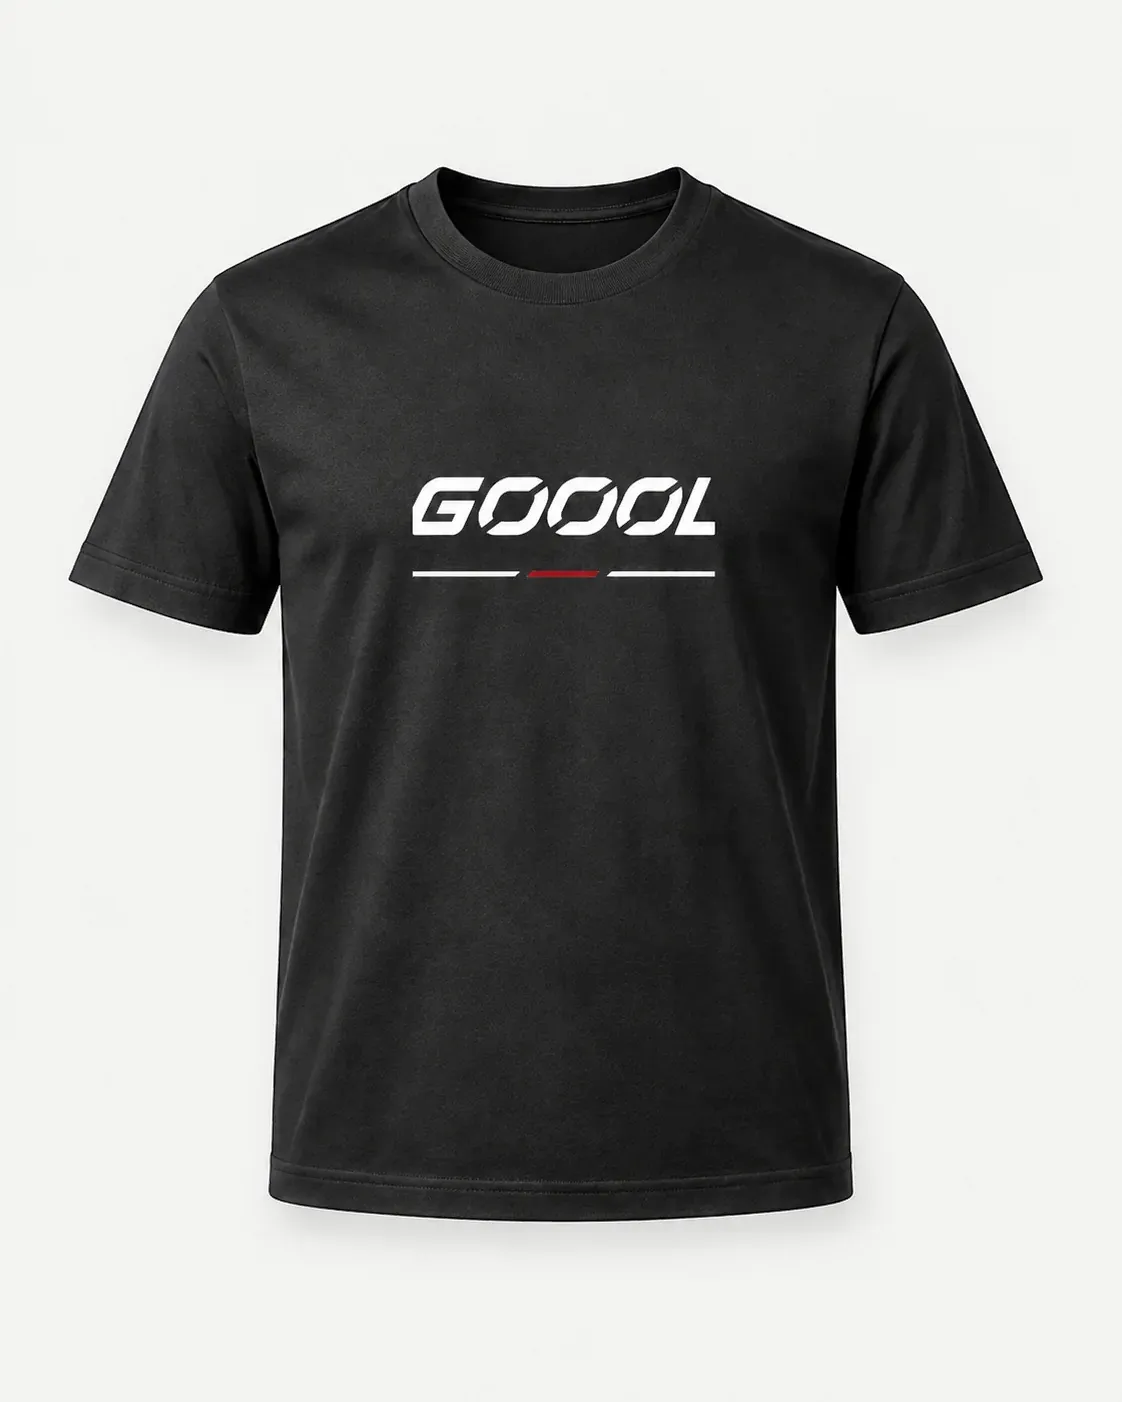
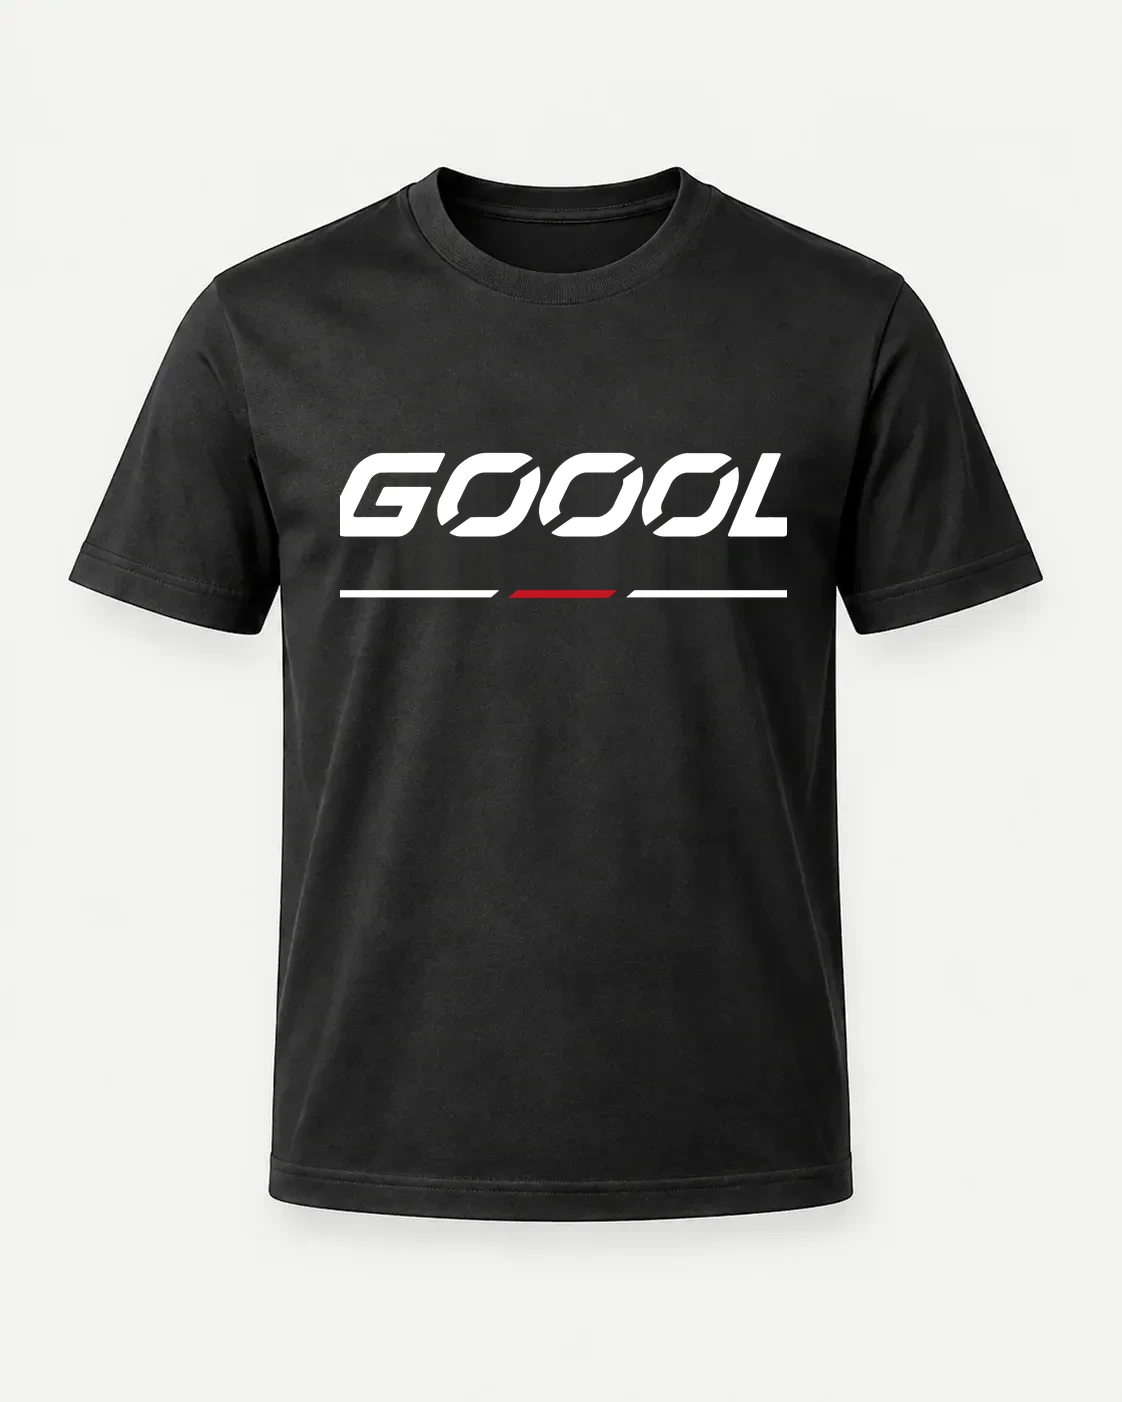
Casual Wordmark 10in print, Varsity front-only + Washed Navy, pricing
Casual Wordmark Tee
- Rebuild the wordmark master at 10in / 3000px native 300dpi (was 6.75in),
  sourced from the same GOOOL glyphs used on GA-01, with the rule geometry
  reconstructed from the original at 4x supersample.
- Composite the new print onto both colourway photos (Washed Black,
  Washed Grey), removing the old 6.75in print with a texture-matched inpaint.
- fulfillment.ts: repoint both colourways at the new Apliiq saved designs
  (6113934, 6113938), which carry the 10in print. Old designs renamed VOID
  in Apliiq (no delete path exists there).
- Price 39 -> 38.

Athletics Varsity Tee
- Drop the back print: Back Box 1 on the 4810GD blank starts too low to
  reach the site's concept placement, so ship front-only rather than a
  mismatched garment. Removed "small ivory mark at the upper back" from
  copy and the back-print detail image.
- Add Washed Navy as a genuine second colourway (front + back photos,
  recoloured from the Washed Black base) alongside the existing Washed
  Black, both front-only.
- fulfillment.ts: repoint Washed Black at the front-only Apliiq design
  (6113914, was 6112032 which had the back print and is now VOID), add
  Washed Navy (6113912). SKUs read from Apliiq, not constructed.
- Price 50 -> 48.

Cart fix
- cart.tsx: makeKey() was missing color, so two colorways of the same
  product in the same size collapsed onto one cart line - the second
  "add" silently bumped quantity on the first color instead of creating
[…]

Changed region(s): [[0.2807, 0.3067, 0.7175, 0.4294]]

diff --git a/src/lib/products.ts b/src/lib/products.ts
@@ -1672,7 +1672,7 @@ export const products: Product[] = [
     slug: "goool-performance-tee",
     description:
       "Lightweight training tee with the GOOOL crest printed at the visual center of the chest. Athletic fit, taped neck, blank back.",
-    priceCents: 3700,
+    priceCents: 3800,
     compareAtPriceCents: null,
     color: "Black",
     colorHex: "#0A0A0A",
@@ -1771,7 +1771,7 @@ export const products: Product[] = [
     slug: "goool-heavyweight-hoodie",
     description:
       "Heavyweight pullover hoodie with the underlined GOOOL wordmark centered across the chest. Generous fit, kangaroo pocket, blank back.",
-    priceCents: 6500,
+    priceCents: 6800,
     compareAtPriceCents: null,
     color: "Black",
     colorHex: "#0A0A0A",
@@ -1851,7 +1851,7 @@ export const products: Product[] = [
     slug: "goool-heavyweight-casual-tee",
     description:
       "Garment-dyed heavyweight cotton tee. Relaxed fit, semi-dropped shoulder, the underlined GOOOL wordmark centered across the chest. Blank back.",
-    priceCents: 3900,
+    priceCents: 3800,
     compareAtPriceCents: null,
     color: "Washed Black",
     colorHex: "#2E2E30",
@@ -1870,7 +1870,10 @@ export const products: Product[] = [
         caption: "Concept render. Not a photograph of a manufactured sample.",
       },
     ],
-    // Colorways mirror the saved Apliiq designs (Washed Black 6098963, Washed Grey 6099060).
+    // Colorways mirror the saved Apliiq designs (Washed Black 6113934, Washed Grey
+    // 6113938) - front print at 10in wide, rebuilt from a native 3000px master
+    // 2026-09-21 (was 6.75in / 6098963 + 6099060, now superseded). Back stays
+    // blank on both colors; Apliiq never had a back print for this product.
     colorVariants: [
       {
         name: "Washed Black",
@@ -2016,8 +2019,8 @@ export const products: Product[] = [
     name: "GOOOL Athletics Varsity Tee",
     slug: "goool-athletics-varsity-tee",
     description:
-      "Arched collegiate GOOOL in warm ivory with a thin dark red outline, ATHLETICS below between short rules. Small ivory GOOOL Athletics mark at the upper back. Washed black crewneck.",
-    priceCents: 5000,
+      "Arched collegiate GOOOL in warm ivory with a thin dark red outline, ATHLETICS below between short rules, centered across the chest. Blank back. Washed black crewneck.",
+    priceCents: 4800,
     compareAtPriceCents: null,
     color: "Washed Black",
     colorHex: "#262626",
@@ -2035,10 +2038,49 @@ export const products: Product[] = [
         alt: "GOOOL Athletics Varsity Tee in washed black, back view",
         caption: "Concept render. Not a photograph of a manufactured sample.",
       },
+    ],
+    // Colorways mirror the saved Apliiq designs (Washed Black 6113914, Washed
+    // Navy 6113912) - front print only, 11in GA-02-F. The back mark (GA-02-B)
+    // was dropped 2026-09-21: on this blank, Back Box 1 starts too low to
+    // reach the site's concept placement, so the owner chose to cut the back
+    // print rather than ship a mismatched garment. 6112032 (front+back,
+    // Washed Black) is superseded and marked VOID in Apliiq.
+    colorVariants: [
       {
-        src: "/products/GOOOL_VARSITY_BACK_DETAIL_V1.png",
-        alt: "Close-up concept of the Varsity Tee's ivory upper-back GOOOL Athletics print",
-        caption: "Back print detail - concept render. Not a photograph of a manufactured sample.",
+        name: "Washed Black",
+        supplierColor: "Washed Black",
+        hex: "#262626",
+        skuFragment: "WBLACK",
+        images: [
+          {
+            src: "/products/GOOOL_STD_VARSITY_FRONT.webp",
+            alt: "GOOOL Athletics Varsity Tee in washed black, front view",
+            caption: "Concept render. Not a photograph of a manufactured sample.",
+          },
+          {
+            src: "/products/GOOOL_STD_VARSITY_BACK.webp",
+            alt: "GOOOL Athletics Varsity Tee in washed black, back view",
+            caption: "Concept render. Not a photograph of a manufactured sample.",
+          },
+        ],
+      },
+      {
+        name: "Washed Navy",
+        supplierColor: "Washed Navy",
+        hex: "#414C67",
+        skuFragment: "WNAVY",
+        images: [
+          {
+            src: "/products/GOOOL_STD_VARSITY_WASHED_NAVY_FRONT.webp",
+            alt: "GOOOL Athletics Varsity Tee in washed navy, front view",
+            caption: "Concept render. Not a photograph of a manufactured sample.",
+          },
+          {
+            src: "/products/GOOOL_STD_VARSITY_WASHED_NAVY_BACK.webp",
+            alt: "GOOOL Athletics Varsity Tee in washed navy, back view",
+            caption: "Concept render. Not a photograph of a manufactured sample.",
+          },
+        ],
       },
     ],
     sizes: ["S", "M", "L", "XL", "XXL"],
@@ -2195,7 +2237,7 @@ export const products: Product[] = [
     slug: "goool-athletics-modern-sport-performance-tee",
     description:
       "The Modern Sport graphic on a performance training tee: white GOOOL with a red underline and spaced ATHLETICS across the chest, small white GOOOL Athletics mark at the upper back. Athletic-fit crewneck in black or true royal.",
-    priceCents: 4800,
+    priceCents: 3800,
     compareAtPriceCents: null,
     color: "Black",
     colorHex: "#0A0A0A",

diff --git a/src/lib/fulfillment.ts b/src/lib/fulfillment.ts
@@ -77,26 +77,31 @@ const MAPPING: Record<string, Record<string, ApliiqVariant>> = {
       },
     },
   },
-  // GOOOL Casual Wordmark Tee (Bella+Canvas 4810GD)
+  // GOOOL Casual Wordmark Tee (Bella+Canvas 4810GD). Front print rebuilt at
+  // 10in (was 6.75in) on 2026-09-21; each color is a NEW saved design because
+  // Apliiq has no in-place artwork swap. Old designs 6098963/6099060 (and a
+  // misconfigured intermediate, 6113937 - Washed Black with the wrong ink -
+  // created while switching the grey colorway) are still live in the Apliiq
+  // account with no delete path there; do not resurrect their SKUs here.
   "70000000-0000-4000-8000-000000000003": {
     "Washed Black": {
-      apliiqProductId: 6098963,
+      apliiqProductId: 6113934,
       skus: {
-        S: "APQ-6098963S6A1",
-        M: "APQ-6098963S7A1",
-        L: "APQ-6098963S8A1",
-        XL: "APQ-6098963S1A1",
-        XXL: "APQ-6098963S2A1",
+        S: "APQ-6113934S6A1",
+        M: "APQ-6113934S7A1",
+        L: "APQ-6113934S8A1",
+        XL: "APQ-6113934S1A1",
+        XXL: "APQ-6113934S2A1",
       },
     },
     "Washed Grey": {
-      apliiqProductId: 6099060,
+      apliiqProductId: 6113938,
       skus: {
-        S: "APQ-6099060S6A1",
-        M: "APQ-6099060S7A1",
-        L: "APQ-6099060S8A1",
-        XL: "APQ-6099060S1A1",
-        XXL: "APQ-6099060S2A1",
+        S: "APQ-6113938S6A1",
+        M: "APQ-6113938S7A1",
+        L: "APQ-6113938S8A1",
+        XL: "APQ-6113938S1A1",
+        XXL: "APQ-6113938S2A1",
       },
     },
   },
@@ -128,15 +133,30 @@ const MAPPING: Record<string, Record<string, ApliiqVariant>> = {
     },
   },
   // GOOOL Athletics Varsity Tee (Bella+Canvas 4810GD, Washed Black)
+  // Front print only (11in, GA-02-F) - the back mark (GA-02-B) was dropped
+  // 2026-09-21 because it could not be placed to match the site's concept
+  // art within Back Box 1 (see products.ts). Washed Black rebuilt at
+  // 6113914 (was 6112032, front+back - now VOID in Apliiq); Washed Navy is
+  // a genuinely new colorway at 6113912.
   "80000000-0000-4000-8000-000000000002": {
     "Washed Black": {
-      apliiqProductId: 6112032,
+      apliiqProductId: 6113914,
       skus: {
-        S: "APQ-6112032S6A1",
-        M: "APQ-6112032S7A1",
-        L: "APQ-6112032S8A1",
-        XL: "APQ-6112032S1A1",
-        XXL: "APQ-6112032S2A1",
+        S: "APQ-6113914S6A1",
+        M: "APQ-6113914S7A1",
+        L: "APQ-6113914S8A1",
+        XL: "APQ-6113914S1A1",
+        XXL: "APQ-6113914S2A1",
+      },
+    },
+    "Washed Navy": {
+      apliiqProductId: 6113912,
+      skus: {
+        S: "APQ-6113912S6A1",
+        M: "APQ-6113912S7A1",
+        L: "APQ-6113912S8A1",
+        XL: "APQ-6113912S1A1",
+        XXL: "APQ-6113912S2A1",
       },
     },
   },

diff --git a/src/lib/cart.tsx b/src/lib/cart.tsx
@@ -16,7 +16,13 @@ import { CartItem } from "./types";
 // No accounts, no server state — checkout hands off to Stripe.
 // ─────────────────────────────────────────────────────────────
 
-const STORAGE_KEY = "portugooool-cart-v1";
+// v2 (2026-09-21): makeKey now includes color. A v1 key was
+// productId+size+customName+customNumber only, so two colorways in the same
+// size collapsed onto one cart line (the second "add" just bumped quantity
+// on the first color instead of adding its own line). Bumping the storage
+// key so a v1 cart in a returning visitor's browser is dropped rather than
+// read back with colorless keys that would no longer match anything.
+const STORAGE_KEY = "portugooool-cart-v2";
 
 interface CartContextValue {
   items: CartItem[];
@@ -33,6 +39,7 @@ const CartContext = createContext<CartContextValue | null>(null);
 function makeKey(item: Omit<CartItem, "key">): string {
   return [
     item.productId,
+    item.color,
     item.size,
     item.customName ?? "",
     item.customNumber ?? "",
